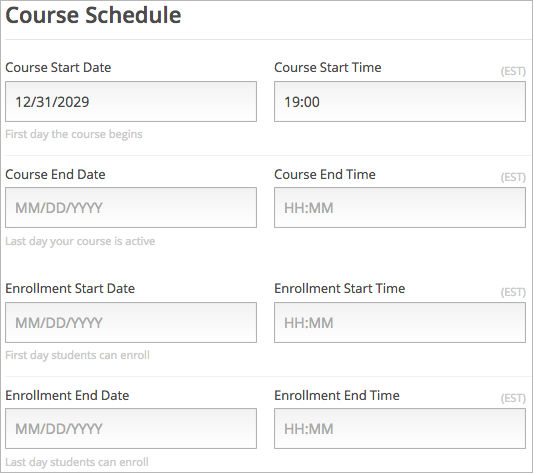
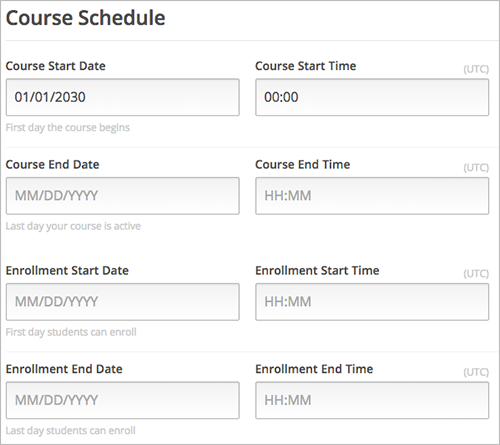
Update to use UTC time in course dates

diff --git a/docs/en_us/course_authors/source/change_log.rst b/docs/en_us/course_authors/source/change_log.rst
@@ -15,6 +15,9 @@ October, 2014
      - Change
    * - 10/7/14
      - Added the :ref:`Including Student Cohorts` chapter.
+   * - 10/7/14
+     - Updated :ref:`Set Important Dates for Your Course` to reflect change
+       that course dates now use UTC.
        
 *****************
 September, 2014
@@ -29,18 +32,23 @@ September, 2014
    * - 09/30/14
      - Added information about accessing edX Insights to the :ref:`Course Data`
        and :ref:`Enrollment` chapters.
+   * - 09/26/14
+     - Added :ref:`Molecule Viewer` to :ref:`Create Exercises`
    * - 09/04/14
      - Updated the :ref:`Discussions` and :ref:`Discussions for Students and
        Staff` chapters to include information about choosing the type of post
        and to reflect changes in the user interface.
    * - 09/11/14
-     - Added info about possible problem types to :ref:`Problem with Adaptive Hint`.
+     - Added info about possible problem types to :ref:`Problem with Adaptive
+       Hint`.
    * - 
-     - Removed "These problems only allow integers and a few select constants" from table of problem types in :ref:`Create Exercises`.
+     - Removed "These problems only allow integers and a few select constants"
+       from table of problem types in :ref:`Create Exercises`.
    * - 
-     - Added a note about angle bracket characters to the :ref:`Dropdown` topic.
-   * - 09/26/14
-     - Added :ref:`Molecule Viewer` to :ref:`Create Exercises`
+     - Added a note about angle bracket characters to the :ref:`Dropdown`
+       topic.
+
+
 
 **************
 August, 2014

diff --git a/docs/en_us/course_authors/source/building_course/setting_up_student_view.rst b/docs/en_us/course_authors/source/building_course/setting_up_student_view.rst
@@ -81,9 +81,9 @@ In Studio, from the **Settings** menu, select **Schedule and Details**.
 
 Follow the on-screen text to enter the course and enrollment schedule.
 
-.. note:: The Time fields on this page reflect the current time zone in your
- browser, depending on your geography. Course start times for students are
- shown as UTC.
+.. note:: 
+ The Time fields on this page, and the times that students see, use UTC
+ (Universal Coordinated Time).
 
 
 .. _The Course Start Date:
@@ -93,7 +93,7 @@ The Course Start Date
 ***********************************
 
 .. note:: The default **Course Start Date** is set far into the future, to
- **01/01/2030 GMT**. This is to ensure that your course does not start before
+ **01/01/2030**. This is to ensure that your course does not start before
  you intend it to.  You must change the course start date to the date you want
  students to begin using the course.
 
